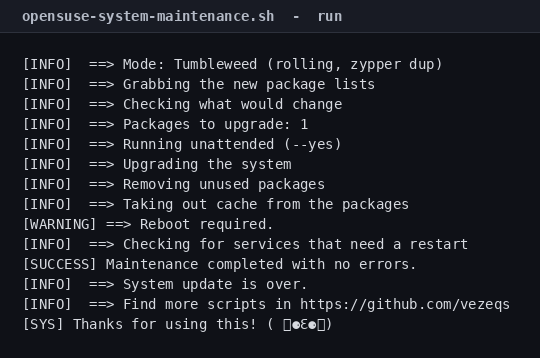
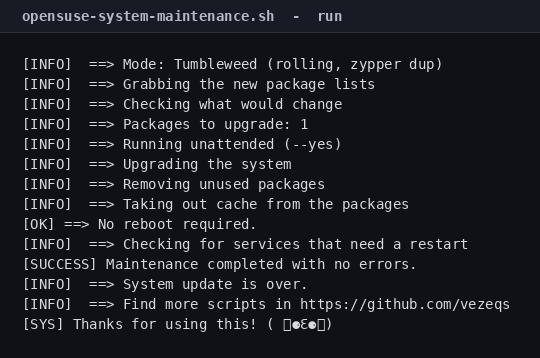
Fix inverted zypper needs-rebooting check

Changed region(s): [[0.0593, 0.6145, 0.5037, 0.6453]]

diff --git a/README.md b/README.md
@@ -96,8 +96,10 @@ A real run against an `opensuse/tumbleweed` container:
 |-------|--------|
 | `opensuse/tumbleweed` 20261028 | Upgrade, unused-package removal, cache clean, reboot check and stale-process check all completed |
 
-The container shares the host kernel, so `zypper needs-rebooting` correctly
-reported a reboot as required after the upgrade.
+`zypper needs-rebooting` returned 0 (no reboot) in the container. The script
+maps zypper's exit code 102 to "Reboot required" and any other non-zero code to
+an explicit "could not determine" warning, so a broken check is never reported
+as a clean result.
 
 ## License
 
